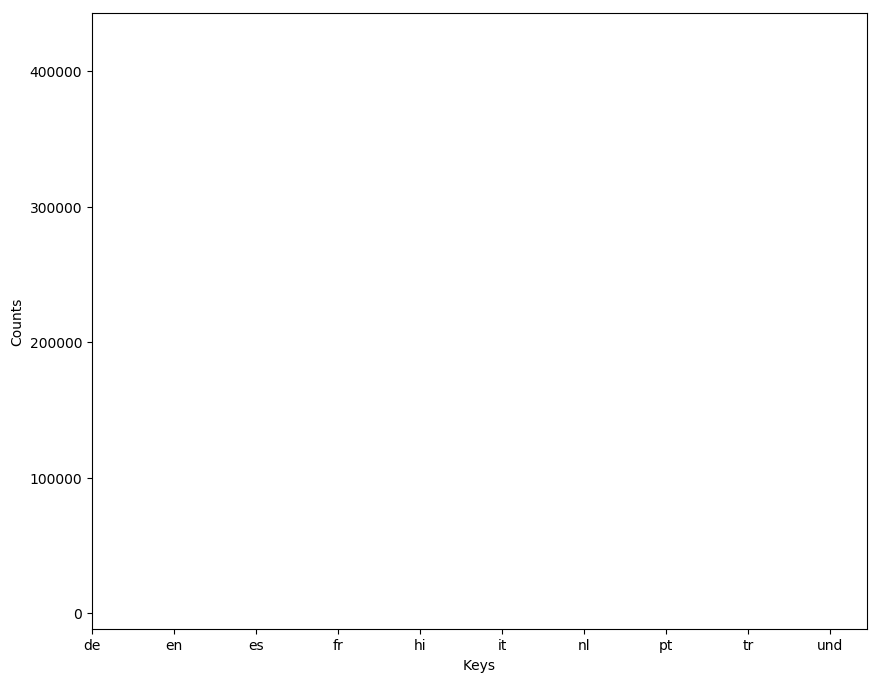
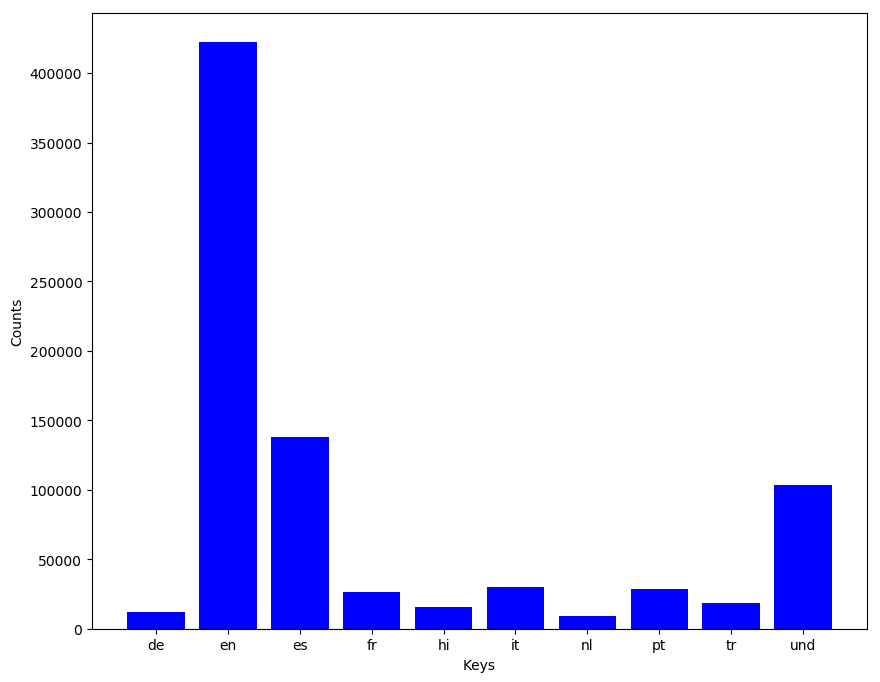
Test graph 5

diff --git a/src/visualize.py b/src/visualize.py
@@ -24,7 +24,7 @@ def create_bar_graph(data, file_name):
     values = [v for k, v in sorted_data]
 
     plt.figure(figsize=(10, 8))
-    plt.barh(values, keys, color='blue')
+    plt.bar(keys, values,  color='blue')
     plt.ylabel('Counts')
     plt.xlabel('Keys')
 
